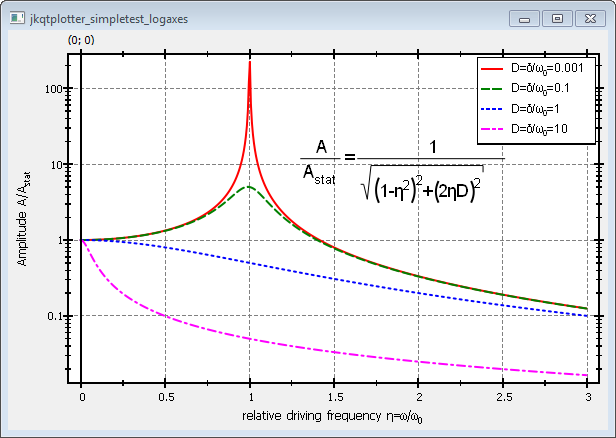
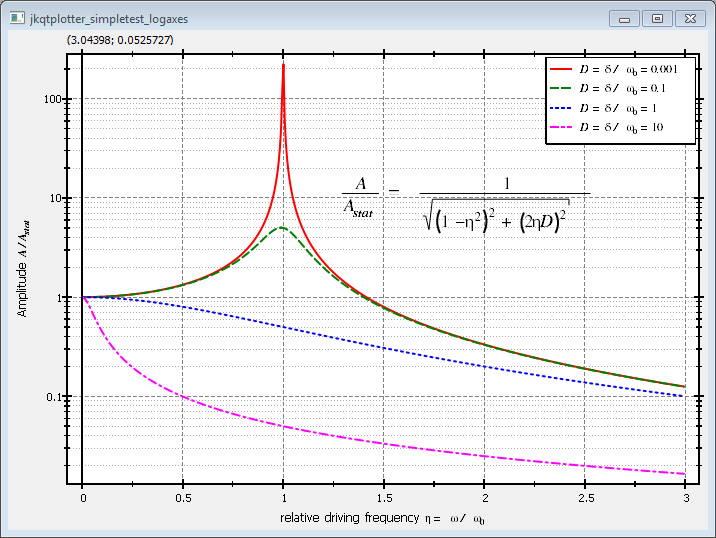
improved log-axis-example

Changed region(s): [[0.0, 0.0, 1.0, 1.0]]

diff --git a/test/jkqtplotter_simpletest_logaxes/jkqtplotter_simpletest_logaxes.cpp b/test/jkqtplotter_simpletest_logaxes/jkqtplotter_simpletest_logaxes.cpp
@@ -49,7 +49,7 @@ int main(int argc, char* argv[])
         graph->set_lineWidth(1.5);
 
         // graph title is made from symbol+penstyle
-        graph->set_title(QString("D=\\delta/\\omega_0=%1").arg(D[id]));
+        graph->set_title(QString("$D=\\delta/\\omega_0=%1$").arg(D[id]));
 
         // add the graph to the plot, so it is actually displayed
         plot.addGraph(graph);
@@ -59,23 +59,47 @@ int main(int argc, char* argv[])
     //    This element (JKQTPgeoText) is taken from the set of geometric elements
     //    and is simply parametrized by a position (1.25/10) and the text to display.
     //    In addition you can also set the font size (here to 15)
-    plot.addGraph(new JKQTPgeoText(&plot, 1.25, 10, "\\frac{A}{A_{stat}}=\\frac{1}{\\sqrt{\\left(1-\\eta^2\\right)^2+\\left(2{\\eta}D\\right)^2}}", 15));
-    // for nicer rendering we set the fonts used by the internal LaTeX parser instance to XITS
-    //plot.get_plotter()->get_mathText()->useXITS();
+    //    Use '$...$' around the actual math string to ensure rendering with a math font
+    //    (the internal renderer uses XITS fonts by default, which are free and auto-distributed
+    //    and loaded in the library). If you don't use the math-mode modifiers, the default
+    //    font of the other rendering text is used, which might not be suitable for
+    //    high-quality math rendering.
+    plot.addGraph(new JKQTPgeoText(&plot, 1.25, 10, "$\\frac{A}{A_{stat}}=\\frac{1}{\\sqrt{\\left(1-\\eta^2\\right)^2+\\left(2{\\eta}D\\right)^2}}$", 15));
 
-    // 4. set y-axis to logarithmic (x-axis would be analogous)
-    //    and set axis labels (using LaTeX notation)
+    // 5. set y-axis to logarithmic (x-axis would be analogous, but using `plot.get_xAxis()`)
     plot.get_yAxis()->set_logAxis(true);
-    plot.get_yAxis()->set_axisLabel("Amplitude A/A_{stat}");
-    plot.get_xAxis()->set_axisLabel("relative driving frequency \\eta=\\omega/\\omega_0");
+    //    now we set the number of label ticks to 9 (you give the count if minor between two majors,
+    //    so if you want ticks for 1,2,3,...,10,20,30,...,100... you need to use 9:
+    plot.get_yAxis()->set_minorTicks(9);
+    //    the minor grid is not shown by default. You can switch it on:
+    plot.get_yAxis()->set_drawMinorGrid(true);
+    //    usually axis ticks are shown as numbers 0.01, 0.1, 1, 10, ... You can also force the scientific
+    //    power-of-10 notation, using:
+    plot.get_yAxis()->set_labelType(JKQTPCALTexponent);
+    //    the number of digits in JKQTPCALTexponent determines which labels are drawn in standard-notation,
+    //    as compared to power-notation (e.g. if set to 1, the labels 0.1=10^{-1}, 1, 10 are shown in
+    //    standard notation, the rest in power-notation. This tweak improves readability)
+    plot.get_yAxis()->set_labelDigits(0);
+    // minor tick labels are usually not displayed, but you can switch them on, using
+    //plot.get_yAxis()->set_minorTickLabelsEnabled(true);
+    // the axis font sizes can be set with:
+    plot.get_yAxis()->set_tickLabelFontSize(10); // axis tick labels
+    plot.get_yAxis()->set_minorTickLabelFontSize(7); // minor axis tick labels
+    plot.get_yAxis()->set_labelFontSize(14); // axis label size
+    plot.get_xAxis()->set_tickLabelFontSize(10); // axis tick labels
+    plot.get_xAxis()->set_minorTickLabelFontSize(7); // minor axis tick labels
+    plot.get_xAxis()->set_labelFontSize(14); // axis label size
+    //    ... and finally set axis labels (using LaTeX notation and $...$ to improve rendering)
+    plot.get_yAxis()->set_axisLabel("Amplitude $A/A_{stat}$");
+    plot.get_xAxis()->set_axisLabel("relative driving frequency $\\eta=\\omega/\\omega_0$");
 
 
-    // 5. autoscale the plot so the graph is contained
+    // 6. autoscale the plot so the graph is contained
     plot.zoomToFit();
 
-    // 6. show plotter and make it a decent size
+    // 7. show plotter and make it a decent size
     plot.show();
-    plot.resize(600,400);
+    plot.resize(700,500);
 
     return app.exec();
 }

diff --git a/lib/jkqtmathtext/jkqtmathtext.cpp b/lib/jkqtmathtext/jkqtmathtext.cpp
@@ -3263,7 +3263,7 @@ void JKQTmathText::useXITS()
 #ifdef AUTOLOAD_XITS_FONTS
     //qDebug()<<"has XITS: "<<fdb.families().contains("XITS");
     if (!fdb.families().contains("XITS")) {
-        int i;
+        int i=0;
         if (QFile::exists(":/JKQTmathText/fonts/xits-bold.otf")) { i=QFontDatabase::addApplicationFont(":/JKQTmathText/fonts/xits-bold.otf"); }
         //qDebug()<<QFontDatabase::applicationFontFamilies(i);
         if (QFile::exists(":/JKQTmathText/fonts/xits-bolditalic.otf")) { i=QFontDatabase::addApplicationFont(":/JKQTmathText/fonts/xits-bolditalic.otf"); }
@@ -3285,6 +3285,8 @@ void JKQTmathText::useXITS()
     //bool hasXITSMath=false;
     QString XITSMathfam;
     for (int i=0; i<fdb.families().size(); i++) {
+        //::cout<<fdb.families().at(i).simplified().toStdString()<<"\n";
+        //qDebug()<<fdb.families().at(i).simplified();
         if (fdb.families().at(i).contains("XITS Math")) {
             //hasXITSMath=true;
             XITSMathfam=fdb.families().at(i);

diff --git a/lib/jkqtplotter/jkqtpgeoelements.cpp b/lib/jkqtplotter/jkqtpgeoelements.cpp
@@ -152,7 +152,9 @@ bool JKQTPgeoText::getYMinMax(double& miny, double& maxy, double& smallestGreate
 
 void JKQTPgeoText::draw(JKQTPEnhancedPainter& painter) {
     painter.save();
-
+#ifdef USE_XITS_FONTS
+    parent->get_mathText()->useXITS();
+#endif
     parent->get_mathText()->set_fontSize(fontSize*parent->get_fontSizeMultiplier());
     parent->get_mathText()->set_fontColor(color);
     parent->get_mathText()->parse(text);

diff --git a/test/jkqtplotter_simpletest_logaxes/README.md b/test/jkqtplotter_simpletest_logaxes/README.md
@@ -41,29 +41,70 @@ Then a `JKQTPgeoText` is added to the graph, which shows the function plotted in
 ```c++
     // 4. Also we add a text-element in the plot to show the plotted function
     //    This element (JKQTPgeoText) is taken from the set of geometric elements
-    //    and is simply parametrized by a position (1.8/10) and the text to display.
+    //    and is simply parametrized by a position (1.25/10) and the text to display.
     //    In addition you can also set the font size (here to 15)
-    plot.addGraph(new JKQTPgeoText(&plot, 1.8, 10, "\\frac{A}{A_{stat}}=\\frac{1}{\\sqrt{\\left(1-\\eta^2\\right)^2+\\left(2{\\eta}D\\right)^2}}", 15));
-    // for nicer rendering we set the fonts used by the internal LaTeX parser instance to XITS
-    plot.get_plotter()->get_mathText()->useXITS();
+    //    Use '$...$' around the actual math string to ensure rendering with a math font
+    //    (the internal renderer uses XITS fonts by default, which are free and auto-distributed
+    //    and loaded in the library). If you don't use the math-mode modifiers, the default 
+    //    font of the other rendering text is used, which might not be suitable for
+    //    high-quality math rendering.
+    plot.addGraph(new JKQTPgeoText(&plot, 1.25, 10, "$\\frac{A}{A_{stat}}=\\frac{1}{\\sqrt{\\left(1-\\eta^2\\right)^2+\\left(2{\\eta}D\\right)^2}}$", 15));
 ```
+The difference between not using and using `$...$` for the equation can be seen below (left: no $-math-mode, right: using $-math-mode):
+![](https://raw.githubusercontent.com/jkriege2/JKQtPlotter/master/screenshots/jkqtplotter_simpletest_logaxes_lowqmathrendering.png)   ![](https://raw.githubusercontent.com/jkriege2/JKQtPlotter/master/screenshots/jkqtplotter_simpletest_logaxes_highqmathrendering.png)
 
 Finally the y-axis is switched to logarithmic scaling and the axis labels are set:
 ```c++
-    // 4. set y-axis to logarithmic (x-axis would be analogous)
-    //    and set axis labels (using LaTeX notation)
+// 5. set y-axis to logarithmic (x-axis would be analogous, but using `plot.get_xAxis()`)
     plot.get_yAxis()->set_logAxis(true);
-    plot.get_yAxis()->set_axisLabel("Amplitude A/A_{stat}");
-    plot.get_xAxis()->set_axisLabel("relative driving frequency \\eta=\\omega/\\omega_0");
+    //    now we set the number of label ticks to 9 (you give the count if minor between two majors,
+    //    so if you want ticks for 1,2,3,...,10,20,30,...,100... you need to use 9:
+    plot.get_yAxis()->set_minorTicks(9);
+    //    the minor grid is not shown by default. You can switch it on:
+    plot.get_yAxis()->set_drawMinorGrid(true);
+    //    usually axis ticks are shown as numbers 0.01, 0.1, 1, 10, ... You can also force the scientific
+    //    power-of-10 notation, using:
+    plot.get_yAxis()->set_labelType(JKQTPCALTexponent);
+    //    the number of digits in JKQTPCALTexponent determines which labels are drawn in standard-notation,
+    //    as compared to power-notation (e.g. if set to 1, the labels 0.1=10^{-1}, 1, 10 are shown in
+    //    standard notation, the rest in power-notation. This tweak improves readability)
+    plot.get_yAxis()->set_labelDigits(0);
+    // minor tick labels are usually not displayed, but you can switch them on, using
+    //plot.get_yAxis()->set_minorTickLabelsEnabled(true);
+    // the axis font sizes can be set with:
+    plot.get_yAxis()->set_tickLabelFontSize(10); // axis tick labels
+    plot.get_yAxis()->set_minorTickLabelFontSize(7); // minor axis tick labels
+    plot.get_yAxis()->set_labelFontSize(14); // axis label size
+    plot.get_xAxis()->set_tickLabelFontSize(10); // axis tick labels
+    plot.get_xAxis()->set_minorTickLabelFontSize(7); // minor axis tick labels
+    plot.get_xAxis()->set_labelFontSize(14); // axis label size
+    //    ... and finally set axis labels (using LaTeX notation and $...$ to improve rendering)
+    plot.get_yAxis()->set_axisLabel("Amplitude $A/A_{stat}$");
+    plot.get_xAxis()->set_axisLabel("relative driving frequency $\\eta=\\omega/\\omega_0$");
 ```
+
+As an alternative `JKQTPCALTexponentCharacter` does not use the power-of-10 notation, but uses the usual unit-characters, e.g. 0.001=1m, 0.000001=1µ, 10000=10k, ...
 
 The result looks like this:
 
-![jkqtplotter_simpletest_symbols_and_styles](https://raw.githubusercontent.com/jkriege2/JKQtPlotter/master/screenshots/jkqtplotter_simpletest_logaxes.png)
+![jkqtplotter_simpletest_logaxes](https://raw.githubusercontent.com/jkriege2/JKQtPlotter/master/screenshots/jkqtplotter_simpletest_logaxes.png)
 
 Without the logarithmic scaling we would have:
 
-![jkqtplotter_simpletest_symbols_and_styles](https://raw.githubusercontent.com/jkriege2/JKQtPlotter/master/screenshots/jkqtplotter_simpletest_logaxes_nolog.png)
+![jkqtplotter_simpletest_logaxes_nolog](https://raw.githubusercontent.com/jkriege2/JKQtPlotter/master/screenshots/jkqtplotter_simpletest_logaxes_nolog.png)
+
+Switching the minor grid off results in a plot like this:
+
+![jkqtplotter_simpletest_logaxes_nominorgrid](https://raw.githubusercontent.com/jkriege2/JKQtPlotter/master/screenshots/jkqtplotter_simpletest_logaxes_nominorgrid.png)
+
+These examples show the results for different typical values for `set_minorTicks()`:
+![logaxis_set_minorticks](https://raw.githubusercontent.com/jkriege2/JKQtPlotter/master/screenshots/logaxis_set_minorticks.png)
+
+These examples show the results for different typical values for `set_labelType()`:
+![logaxis_set_labelType](https://raw.githubusercontent.com/jkriege2/JKQtPlotter/master/screenshots/logaxis_set_labelType.png)
+
+These examples show the results for different typical values for `set_labelType()`:
+![logaxis_set_labelType](https://raw.githubusercontent.com/jkriege2/JKQtPlotter/master/screenshots/logaxis_set_labelType.png)
 
 
 [Back to JKQTPlotter main page](https://github.com/jkriege2/JKQtPlotter/)

diff --git a/README.md b/README.md
@@ -29,7 +29,7 @@ All test-projects are Qt-projects that use qmake to build. You can load them int
 
 | Screenshot    | Description   | Notes         |
 |:-------------:| ------------- | ------------- |
-| [![](https://raw.githubusercontent.com/jkriege2/JKQtPlotter/master/screenshots/jkqtplotter_simpletest_logaxes_small.png)](https://github.com/jkriege2/JKQtPlotter/tree/master/test/jkqtplotter_simpletest_logaxes) | [logarithmic axes](https://github.com/jkriege2/JKQtPlotter/tree/master/test/jkqtplotter_simpletest_logaxes) | `JKQTPxyLineGraph` and `JKQTPgeoText`<br/>C++ vector of data<br/>logarithmic axes<br/>plot line styles<br/>internal LaTeX parser<br/>add commenting text to a graph |
+| [![](https://raw.githubusercontent.com/jkriege2/JKQtPlotter/master/screenshots/jkqtplotter_simpletest_logaxes_small.png)](https://github.com/jkriege2/JKQtPlotter/tree/master/test/jkqtplotter_simpletest_logaxes) | [logarithmic axes](https://github.com/jkriege2/JKQtPlotter/tree/master/test/jkqtplotter_simpletest_logaxes) | `JKQTPxyLineGraph` and `JKQTPgeoText`<br/>C++ vector of data<br/>logarithmic axes and styling<br/>plot line styles<br/>internal LaTeX parser<br/>add commenting text to a graph |
 | [![](https://raw.githubusercontent.com/jkriege2/JKQtPlotter/master/screenshots/jkqtplotter_simpletest_dateaxes_small.png)<br>![](https://raw.githubusercontent.com/jkriege2/JKQtPlotter/master/screenshots/jkqtplotter_simpletest_dateaxes_dates_small.png)<br>![](https://raw.githubusercontent.com/jkriege2/JKQtPlotter/master/screenshots/jkqtplotter_simpletest_dateaxes_timeaxis_small.png)](https://github.com/jkriege2/JKQtPlotter/tree/master/test/jkqtplotter_simpletest_dateaxes) | [date/time axes](https://github.com/jkriege2/JKQtPlotter/tree/master/test/jkqtplotter_simpletest_dateaxes) | `JKQTPxyLineGraph` and `JKQTPfilledVerticalRangeGraph`<br/>C++ vector of data<br/>date/time axes<br/>plot min/max range graph<br/>internal LaTeX parser<br/>data from CSV files |
 
 
